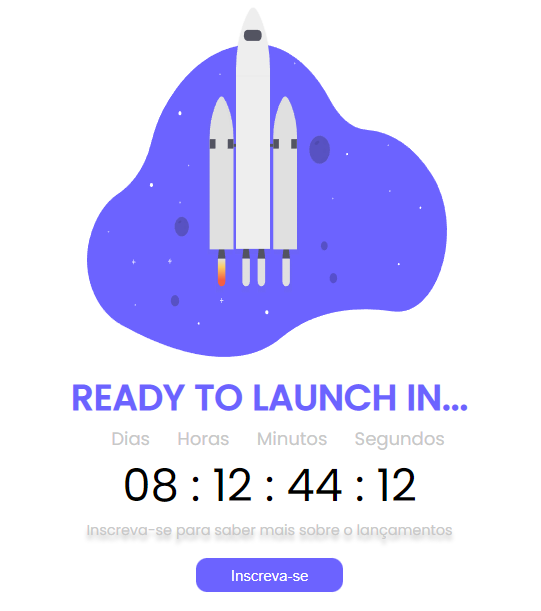
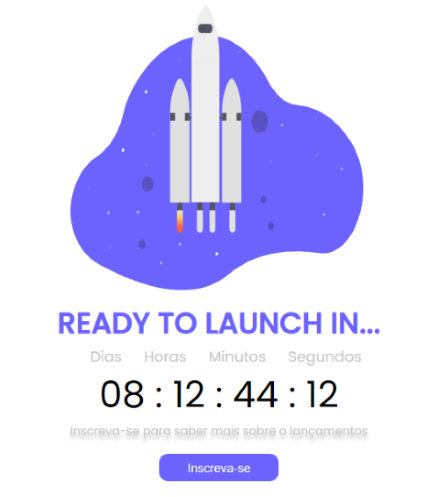
imagens com tamanhos menores, e ajeitando a parte dos projetos

diff --git a/PaginaPrincipal/index.html b/PaginaPrincipal/index.html
@@ -129,44 +129,43 @@
                     </div>
         
                 </div>
-            </div>
         </div>
-        <div>
+        <div class="projetos">
             <div class="topicos">
                 <h1>🔗Portifólio</h1>
             </div>
             <h2>Projetos</h2>
-            <div>
+            <div class="projeto">
                 <h3>Rocketflix</h3>
                 <p>Projeto da Rocketseat, nesse projeto utilizei a API do TMDB, não tive muitas dificuldades, o mais chato foi a responsividade.</p>
-                <span>Online</span>
-                <span>JavaScript</span>
-                <span>HTML</span>
-                <span>CSS</span>
+                    <div>
+                        <div>JavaScript</div>
+                        <div>HTML</div>
+                        <div>CSS</div>
+                    </div>
                 <a href="https://arthursalomaoo.github.io/Portifolio/Rocketflix/"><img src="imagens/fotoRocketflix.png" alt="Foto do projeto Rocketflix"></a>
             </div>
-            <div>
+            <div class="projeto">
                 <h3>Calculadora</h3>
                 <p>Projeto de uma calculadora básica, o mais interessante nesse projeto é a opção de mudar o tema da página</p>
-                <span>Online</span>
-                <span>JavaScript</span>
-                <span>HTML</span>
-                <span>CSS</span>
+                <div>
+                    <span>JavaScript</span>
+                    <span>HTML</span>
+                    <span>CSS</span>
+                </div>
                 <a href="https://arthursalomaoo.github.io/Portifolio/Calculator/"><img src="imagens/fotoCalculadora.png" alt="Foto do projeto da calculadora"></a>
             </div>
-            <div>
+            <div class="projeto">
                 <h3>Countdown</h3>
                 <p>Projeto básico de contagem regressiva</p>
-                <span>Online</span>
                 <span>JavaScript</span>
                 <span>HTML</span>
                 <span>CSS</span>
                 <a href="https://arthursalomaoo.github.io/Portifolio/Countdown/"><img src="imagens/fotoCountdown.png" alt="Foto do projeto Countdown"></a>
             </div>
-            <div>
+            <div class="projeto">
                 <h3>Formulario</h3>
                 <p>Projeto para cadrasto de DEVs, não tive muitas dificuldades</p>
-                <span>Online</span>
                 <span>JavaScript</span>
                 <span>HTML</span>
                 <span>CSS</span>
@@ -209,7 +208,6 @@
         <a href="#"><img src="imagens/github.svg" alt="github"></a>
         <p>Copyright © Henrique Sousa · 2022</p>
     </footer>
-
 
     <script src="script.js"></script>
 

diff --git a/PaginaPrincipal/estilos/style.css b/PaginaPrincipal/estilos/style.css
@@ -97,7 +97,7 @@ h2 {
 #links > div > a {
     color: #7B4AE280;
     font-weight: 400;
-    font-size: 1.1rem;
+    font-size: 1.1em;
 }
 
 
@@ -179,4 +179,61 @@ h2 {
 .tempo > p{
     font-size: 0.9em;
     color: #7B4AE2;
+}
+
+.projetos > .topicos{
+    margin-top: 50px;
+}
+
+.projetos {
+    max-width: 380px;
+}
+
+.projeto {
+    margin-top: 20px;
+    border: 1px solid #7B4AE2;
+    border-radius: 15px;
+}
+
+.projeto > a > img {
+    width: 100%;
+}
+
+.projeto > h3 {
+    color: #fff;
+    margin-top: 10px;
+}
+
+.projeto > h3, .projeto > p, .projeto > div > div:first-of-type{
+    margin-left: 25px;
+}
+
+.projeto > p {
+    color: #ffffff80;
+    font-size: 0.9em;
+    margin-top: 10px;
+    margin-bottom: 10px;
+}
+
+.projeto > div {
+    display: flex;
+    align-items: baseline;
+}
+
+.projeto > div > div {
+    padding: 5px 20px;
+    color: #7B4AE2;
+    background: #7b4ae21a;
+    margin-left: 15px;
+    border-radius: 10px;
+}
+
+.projeto > a {
+    display: block;
+    margin: 25px auto;
+    width: 330px;
+}
+
+.projeto > a > img {
+    height: 300px;
 }
